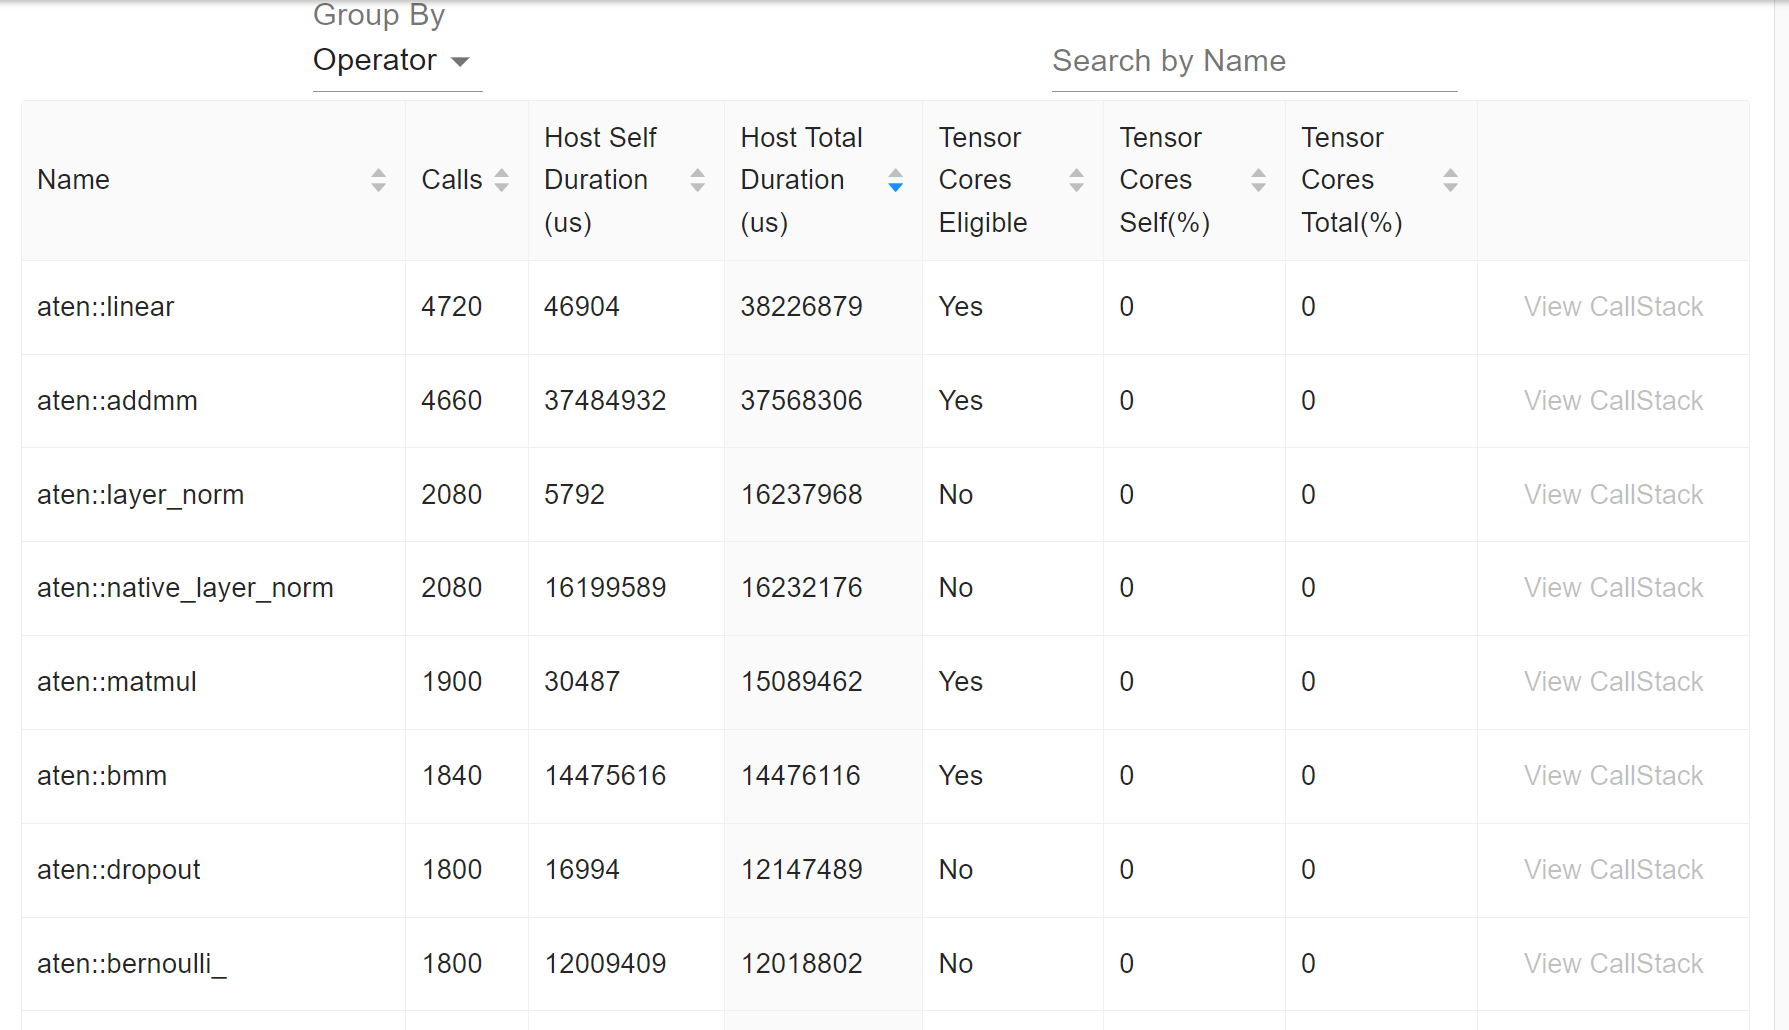
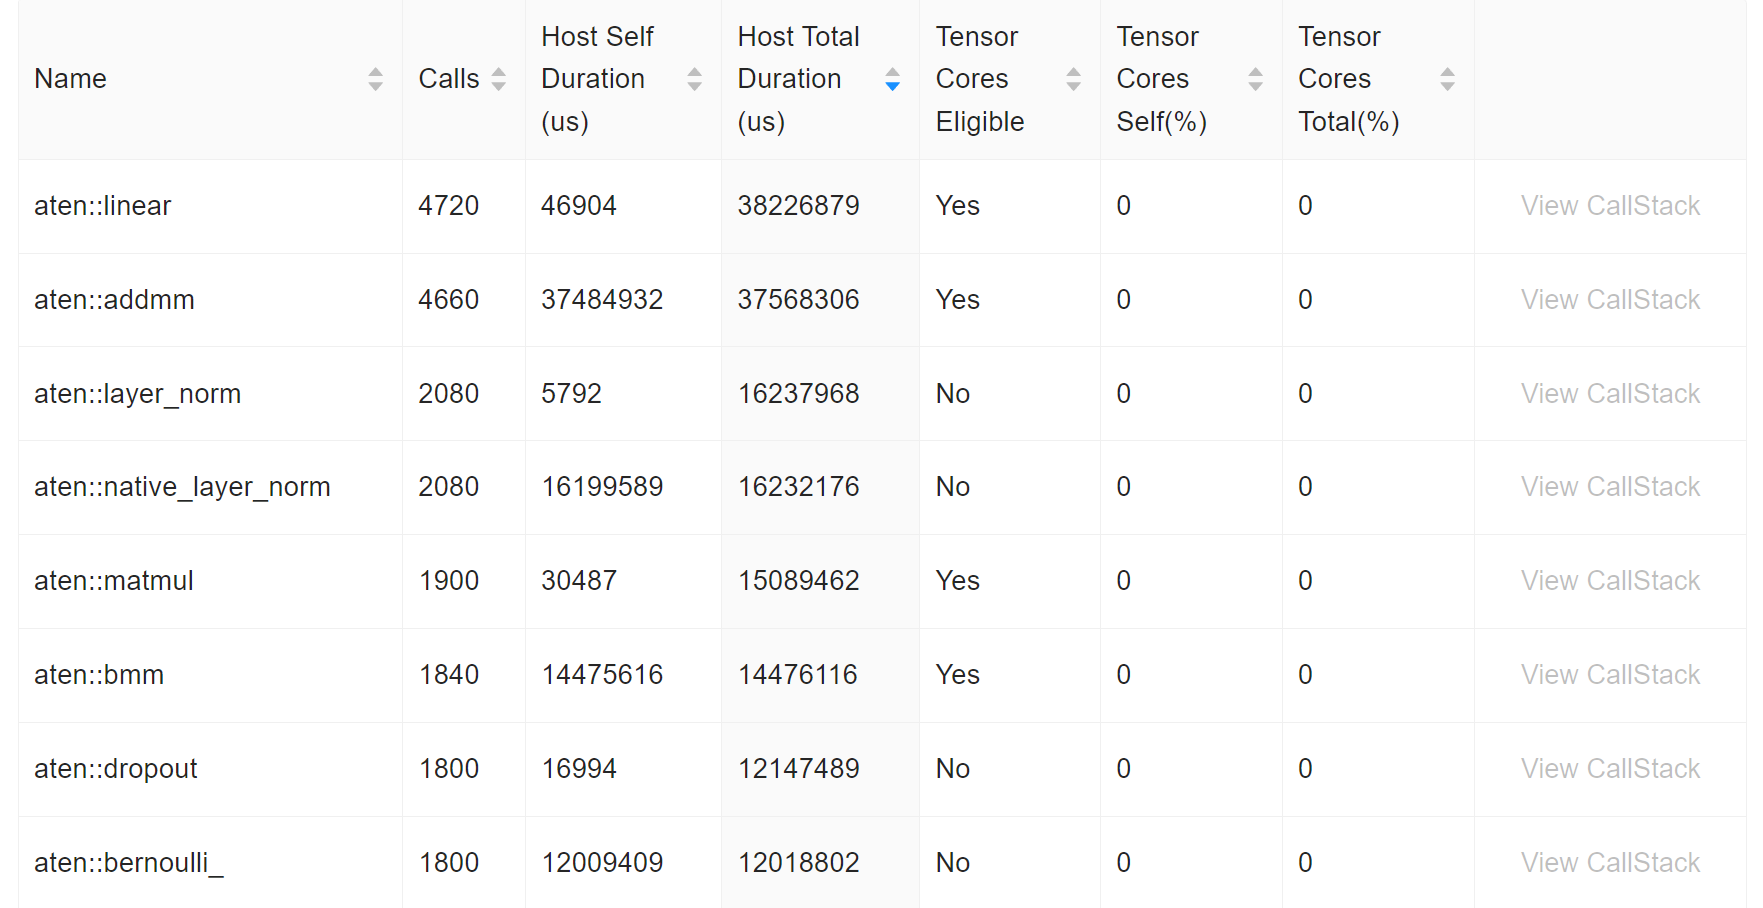
renewed images

diff --git a/documentation/mdlm.md b/documentation/mdlm.md
@@ -12,9 +12,9 @@ For simplicity, for the final bottleneck analysis, I choose batch_size=16, times
 
 ### Profiling Analysis
 #### **MDLM**
-CPU Time: 5.708 seconds
+**CPU Time:** 5.708 seconds
 
-CUDA Time: 4.940 seconds
+**CUDA Time:** 4.940 seconds
 
 Top cuda execution time lists is shown in the table.
 | Name | CUDA Total | CPU Total% |
